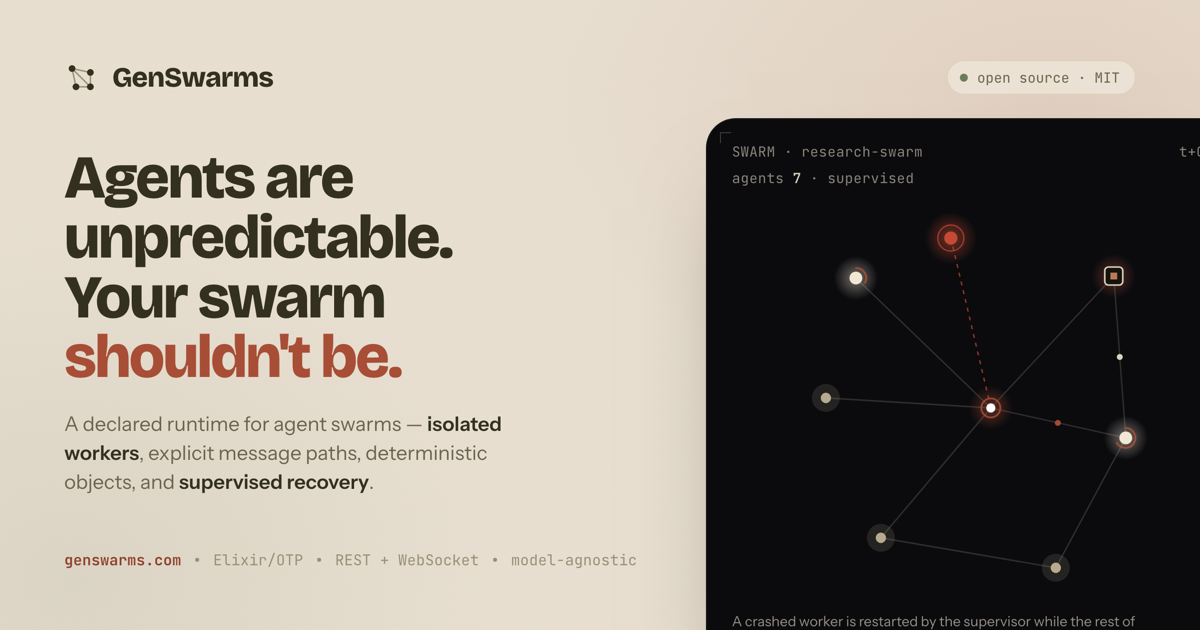
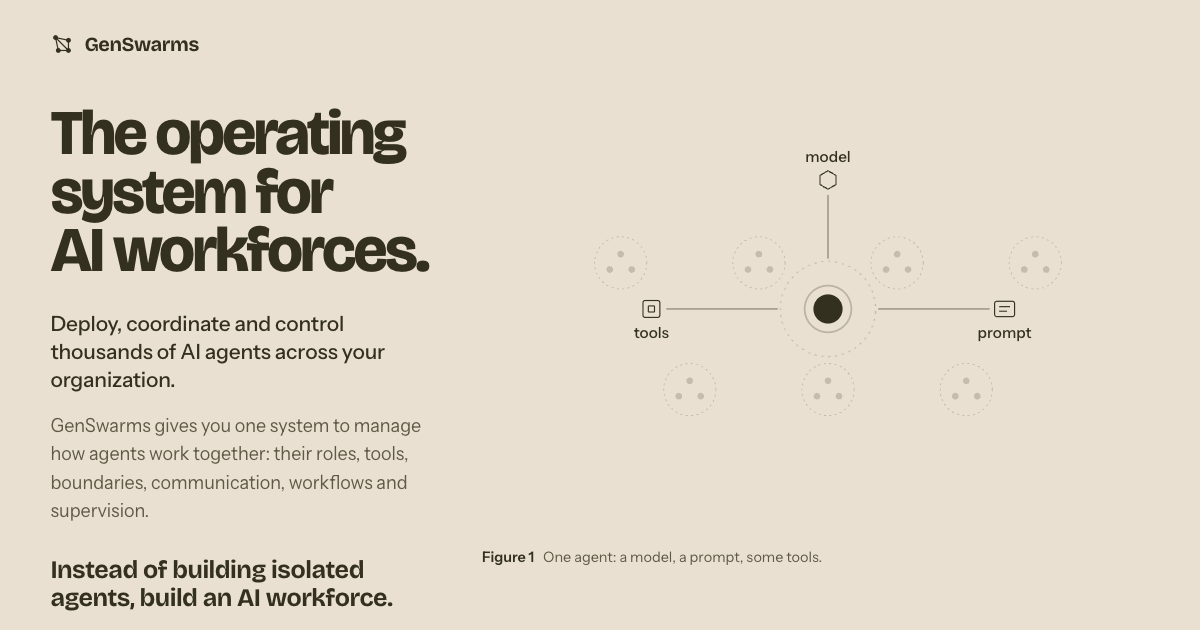
website: head, structured data, llms.txt, 404, OG image, sitemap
- Head: canonical link, content-language, OG/Twitter tags, real
  favicon links (replacing the Task 6 data: stopgap), and a
  SoftwareApplication JSON-LD block for v0.2.0.
- llms.txt rewritten to the operating-system positioning with the
  spec's 4.2 mechanism table as bullets.
- 404.html: "This page ran off the swarm." message, 44px tap target
  on the home link.
- sitemap.xml: lastmod set to the merge date.
- New website/tools/og.cjs renders og-image.png via Playwright;
  regenerated it against the rebuilt page (headline + Figure 1 fully
  visible).

diff --git a/website/index.html b/website/index.html
@@ -4,8 +4,16 @@
 <meta charset="utf-8">
 <meta name="viewport" content="width=device-width, initial-scale=1">
 <title>GenSwarms: the operating system for AI workforces</title>
-<meta name="description" content="GenSwarms is an open-source Elixir/OTP runtime that runs swarms of AI agents as isolated, supervised processes with declared message paths, a REST and WebSocket API and a live event stream.">
-<link rel="icon" href="data:,">
+<meta name="description" content="GenSwarms runs AI agents as isolated, supervised processes on declared message paths, with an API and a live event stream. Open source, MIT.">
+<link rel="canonical" href="https://genswarms.com/">
+<meta http-equiv="content-language" content="en">
+<meta property="og:type" content="website"><meta property="og:locale" content="en_US">
+<meta property="og:title" content="GenSwarms: the operating system for AI workforces">
+<meta property="og:description" content="Deploy, coordinate and control AI agents as isolated, supervised processes.">
+<meta property="og:url" content="https://genswarms.com/"><meta property="og:image" content="https://genswarms.com/og-image.png">
+<meta name="twitter:card" content="summary_large_image">
+<link rel="icon" href="/favicon.svg" type="image/svg+xml"><link rel="icon" href="/favicon-32.png" sizes="32x32"><link rel="apple-touch-icon" href="/apple-touch-icon.png">
+<script type="application/ld+json">{"@context":"https://schema.org","@type":"SoftwareApplication","name":"GenSwarms","applicationCategory":"DeveloperApplication","operatingSystem":"Linux, macOS","softwareVersion":"0.2.0","license":"https://opensource.org/licenses/MIT","url":"https://genswarms.com/","codeRepository":"https://github.com/genlayerlabs/genswarms","description":"The operating system for AI workforces: runs AI agents as isolated, supervised processes on declared message paths, with a REST + WebSocket API and a live event stream.","offers":{"@type":"Offer","price":"0","priceCurrency":"USD"},"author":{"@type":"Organization","name":"GenLayer Labs"}}</script>
 <link rel="preconnect" href="https://fonts.googleapis.com">
 <link rel="preconnect" href="https://fonts.gstatic.com" crossorigin>
 <link href="https://fonts.googleapis.com/css2?family=Bricolage+Grotesque:opsz,wght@12..96,400..800&family=Instrument+Sans:ital,wght@0,400;0,500;0,600;1,400&family=JetBrains+Mono:wght@400;500&display=swap" rel="stylesheet">

diff --git a/website/404.html b/website/404.html
@@ -24,7 +24,7 @@ body{min-height:100vh;display:flex;align-items:center;justify-content:center;bac
 h1{font-family:"Bricolage Grotesque",sans-serif;font-weight:800;font-size:clamp(40px,9vw,72px);line-height:1;letter-spacing:-.03em;margin-bottom:16px}
 p{font-size:16.5px;color:var(--ink-2);max-width:34ch;margin:0 auto 30px}
 .row{display:flex;gap:14px;justify-content:center;flex-wrap:wrap}
-.btn{display:inline-flex;align-items:center;gap:8px;font-size:15px;font-weight:600;padding:12px 20px;border-radius:11px;text-decoration:none;transition:transform .3s var(--r-spring),border-color .3s ease,background .3s ease}
+.btn{display:inline-flex;align-items:center;gap:8px;font-size:15px;font-weight:600;padding:12px 20px;min-height:44px;border-radius:11px;text-decoration:none;transition:transform .3s var(--r-spring),border-color .3s ease,background .3s ease}
 .btn-primary{background:var(--ink);color:var(--paper)}
 .btn-primary:hover{background:var(--accent)}
 .btn-ghost{color:var(--ink);border:1px solid var(--line-2)}
@@ -43,7 +43,7 @@ p{font-size:16.5px;color:var(--ink-2);max-width:34ch;margin:0 auto 30px}
       <circle cx="9" cy="20" r="2.6"/><circle cx="20" cy="20" r="2.6"/>
     </svg>
     <div class="code">Error 404</div>
-    <h1>This node isn't on the graph.</h1>
+    <h1>This page ran off the swarm.</h1>
     <p>The page you're looking for doesn't exist — or it wandered off the topology.</p>
     <div class="row">
       <a class="btn btn-primary" href="/">Back to home <svg width="13" height="13" viewBox="0 0 13 13" fill="none" stroke="currentColor" stroke-width="1.5"><path d="M3 10L10 3M10 3H4M10 3V9"/></svg></a>
